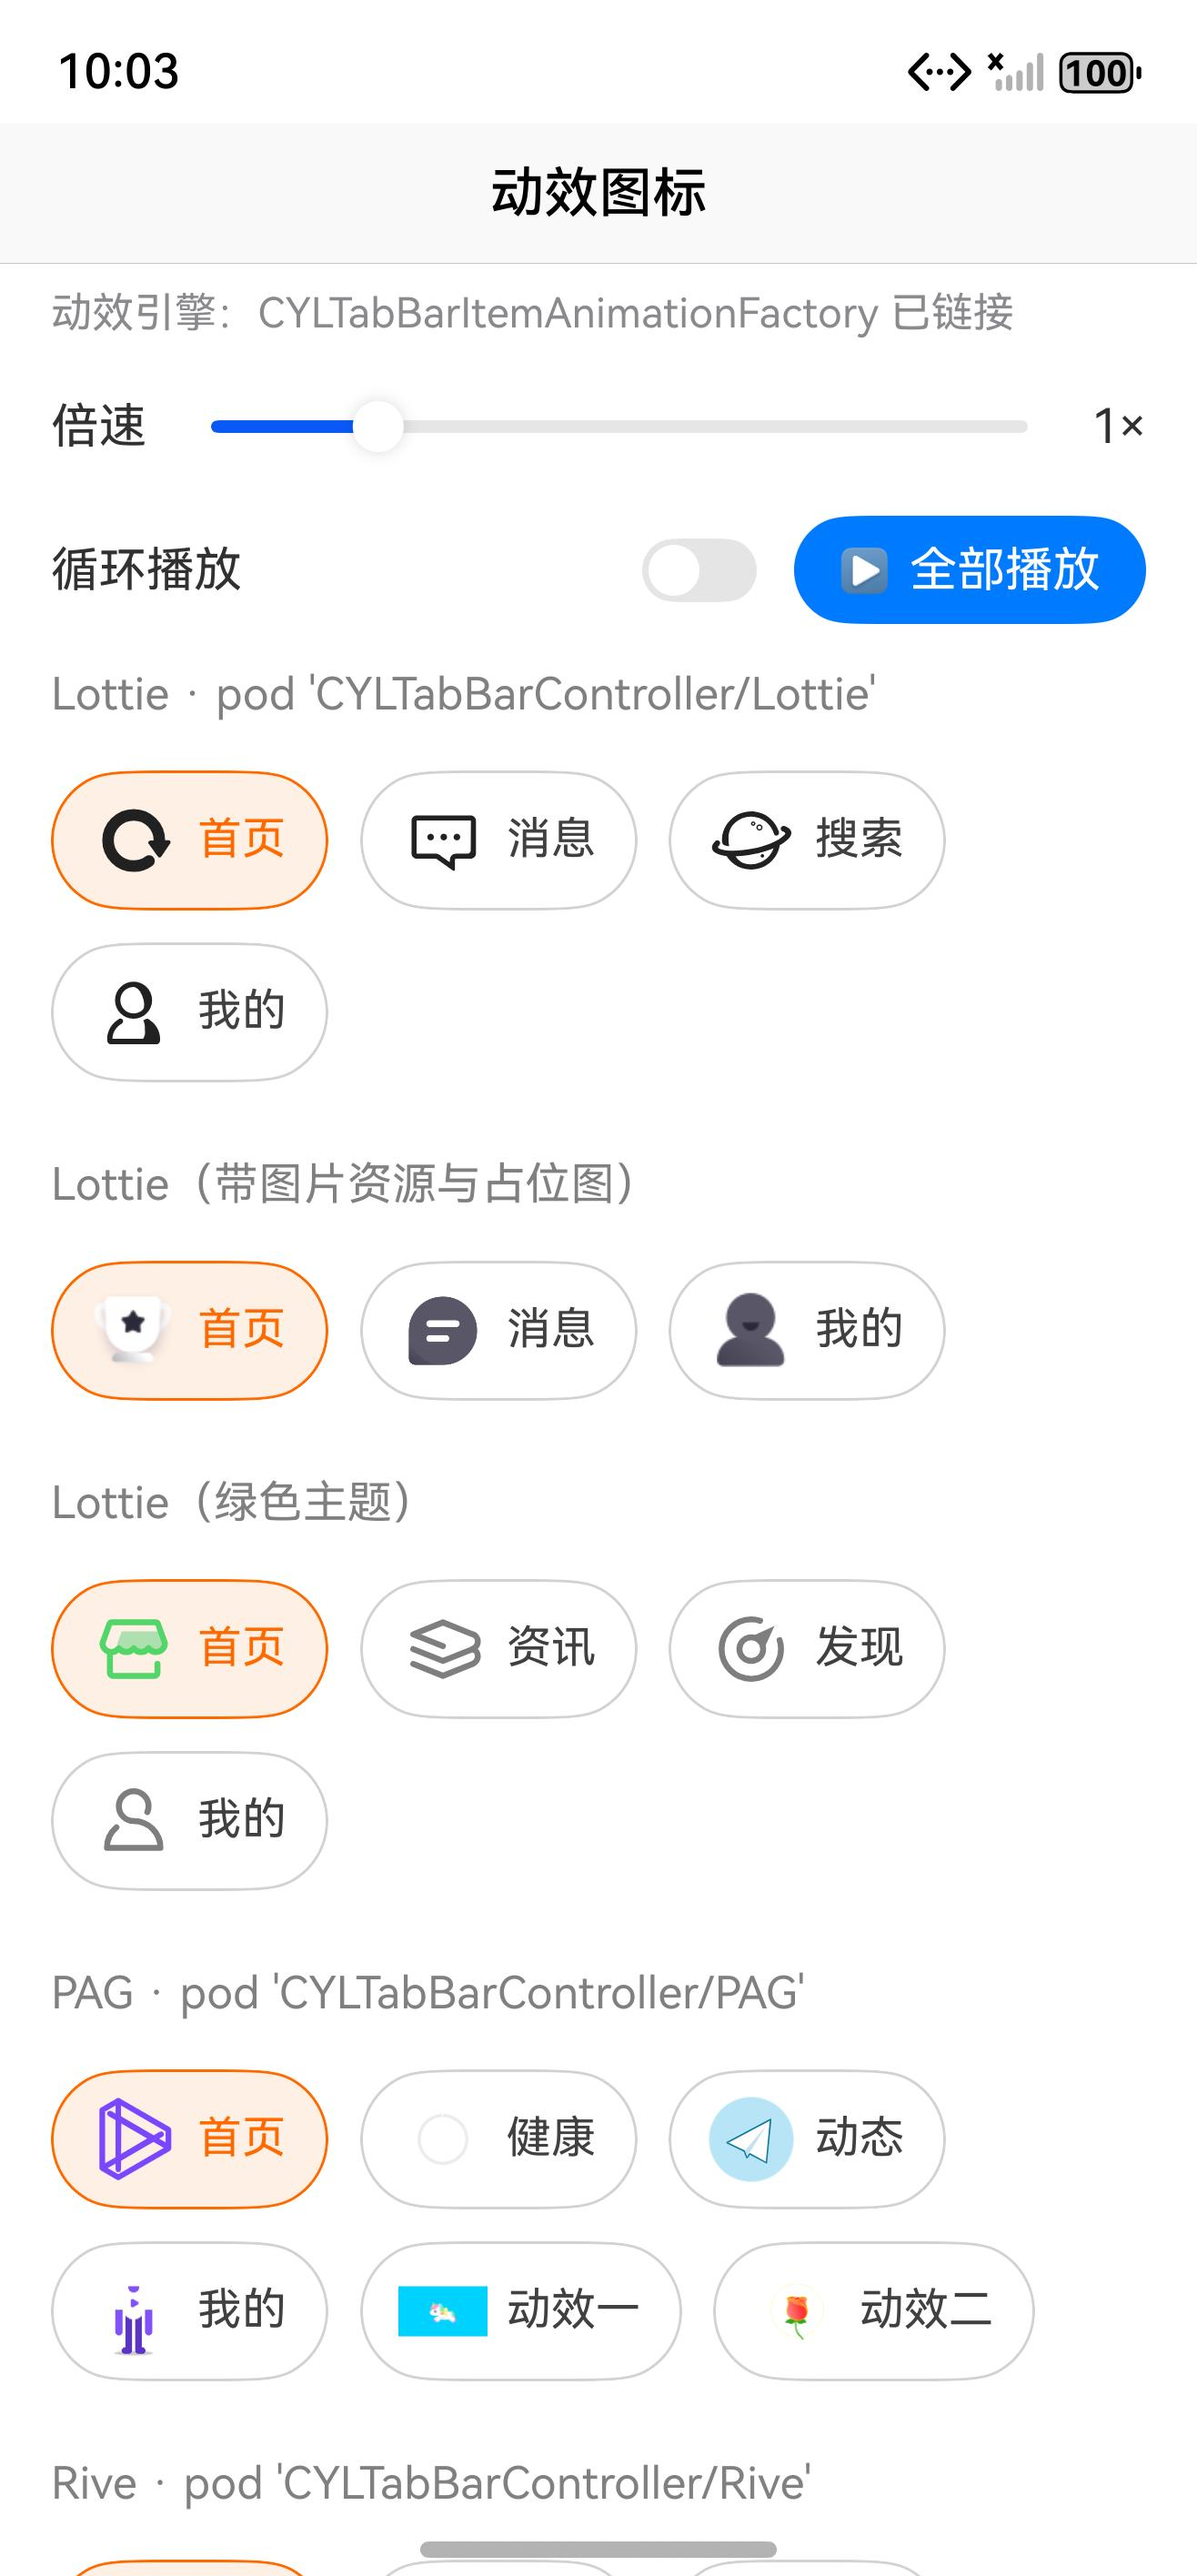
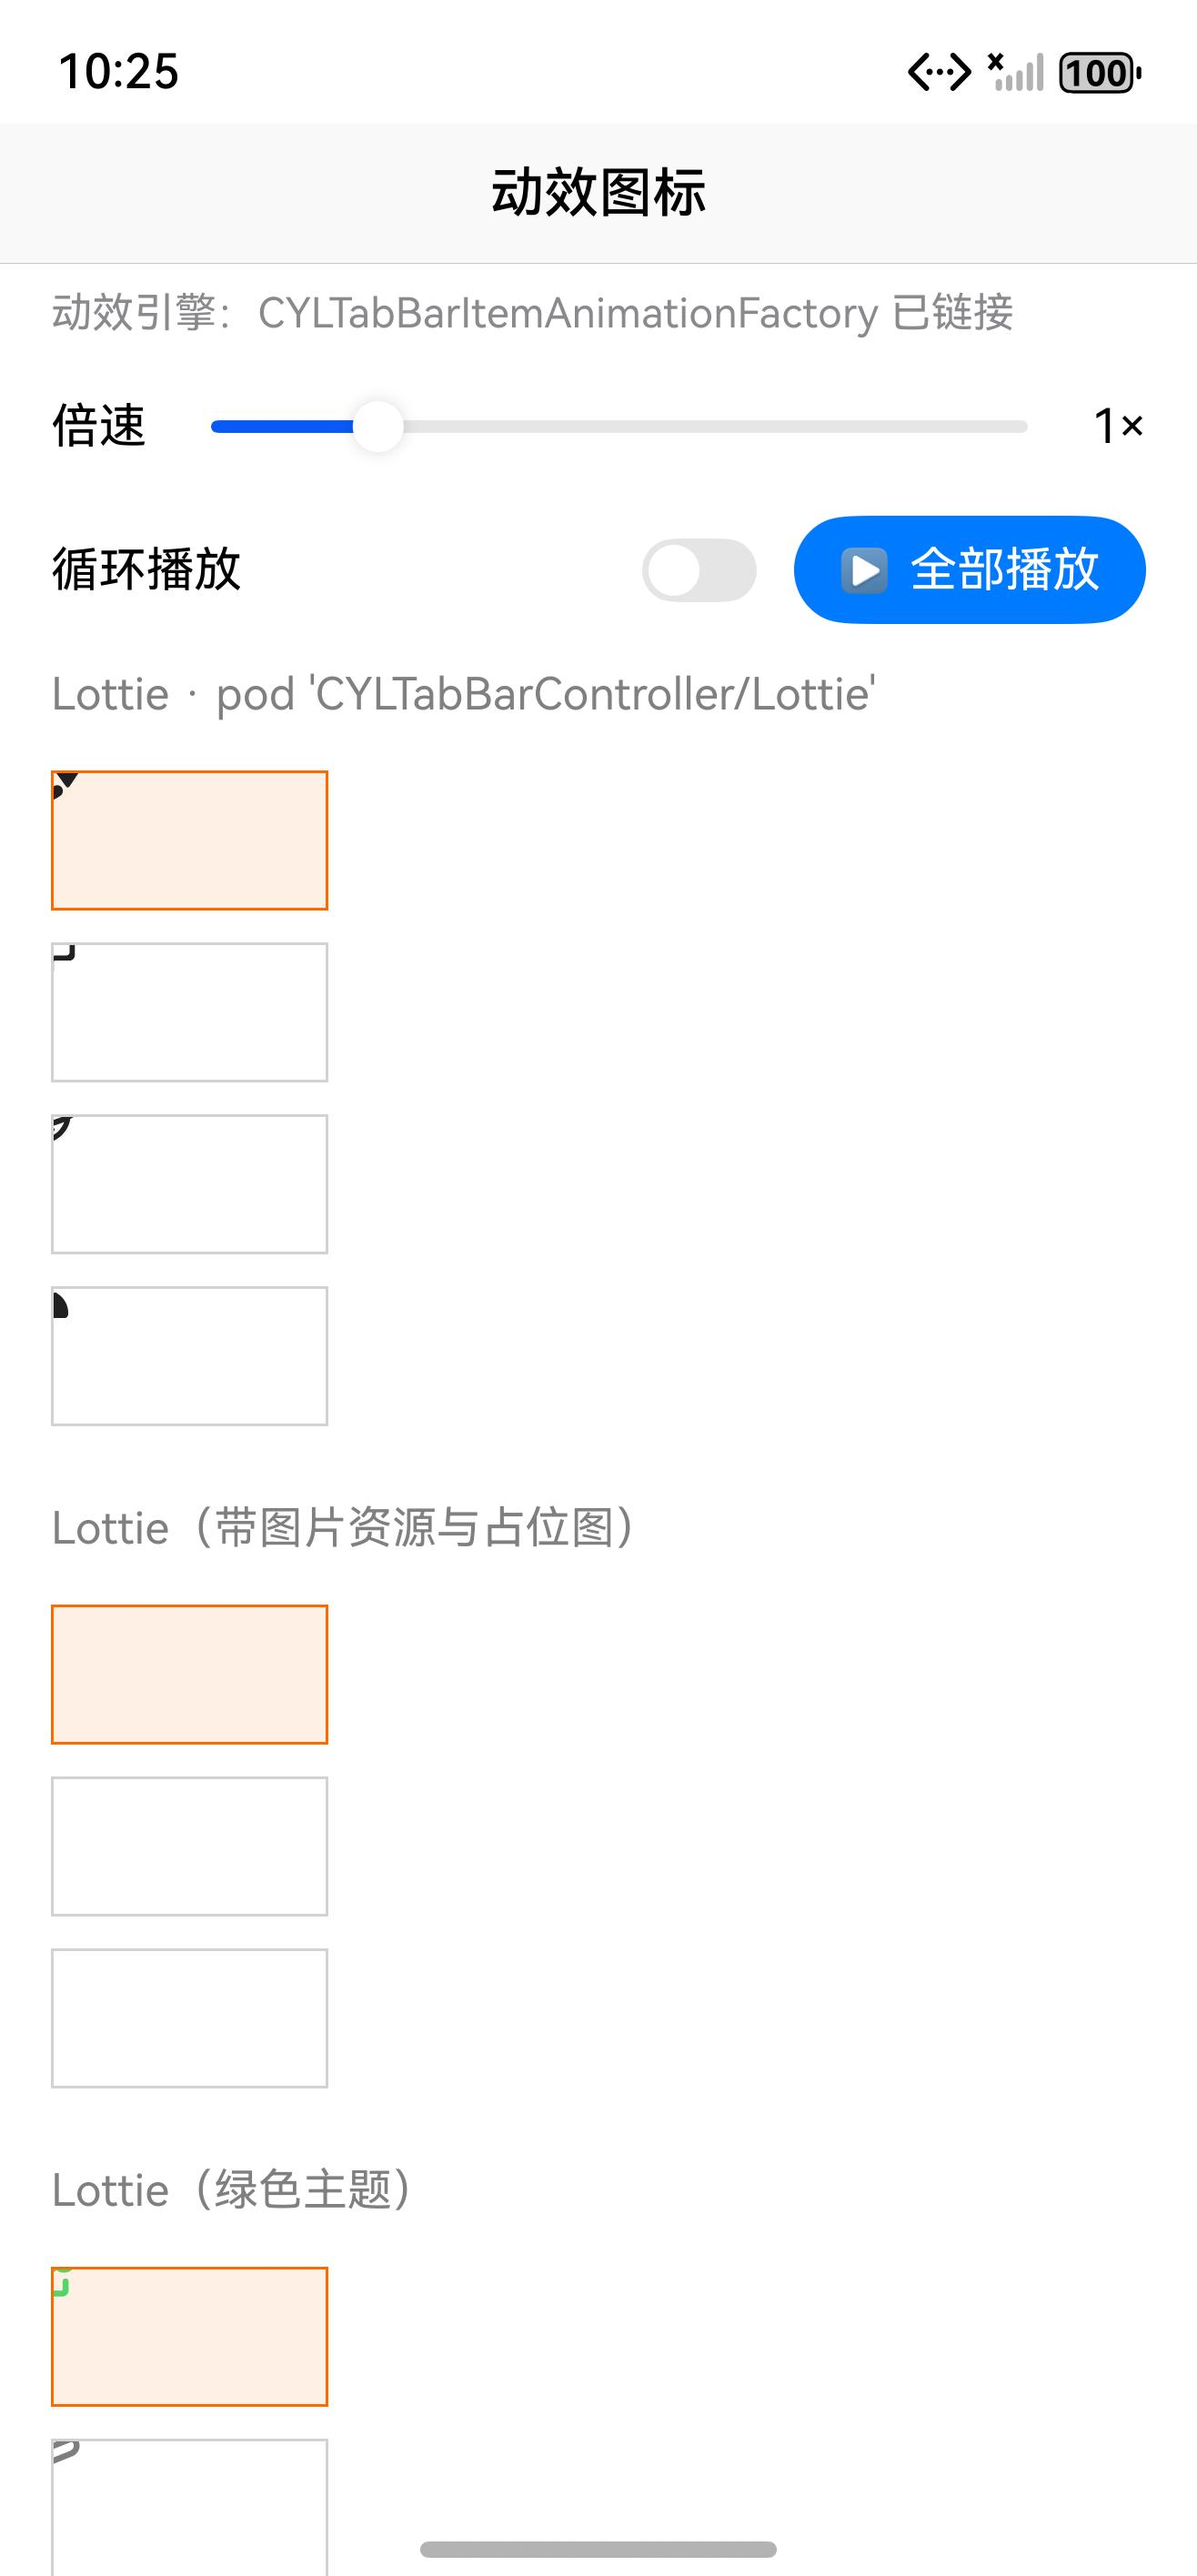
docs(harmony): 📝 rerun after the port's fixes: taps work, B11 regressed
Tag taps, the plus tab and the menu-linkage fold controls now work on
the emulator (six new pushed-page screenshots). The filter panel opens
under a dimming layer, the plus button still has no accessibility text,
the animated tags are empty boxes after 849c2d8, and the animation screen
crashed the emulator host twice (dark mode, scrolling).

By @ChenYilong <luohanchenyilong@163.com>

Claude-Session: https://claude.ai/code/session_017y7XP1mQbtZ3qSM2mvdshG

diff --git a/docs/harmony-verification.md b/docs/harmony-verification.md
@@ -34,7 +34,7 @@ screenshot in `docs/assets/`, or a passing `harmony/scripts/ui-test.sh` run); co
 ## Score
 
 **Score: 52 / 53 = 98.1 / 100 with the deferred rows counted as N/A (1 row has a defect found on the emulator:
-B11, dark mode and the Rive crash); verified on a device or the computer: 38 / 53 = 71.7 / 100.** Full marks = every row `DONE` / `N/A`. The 16 rows marked "TODO: N/A on HarmonyOS (deferred)" are not
+B11, a regression after `849c2d8` and emulator crashes); verified on a device or the computer: 38 / 53 = 71.7 / 100.** Full marks = every row `DONE` / `N/A`. The 16 rows marked "TODO: N/A on HarmonyOS (deferred)" are not
 impossible on HarmonyOS: they need a run on the emulator that has not happened yet (marked N/A at the maintainer's
 request, 2026-11-16; the dedicated emulator `CYL ClassifyMenu Test` exists since then). Each one turns back into a check when an emulator runs (`ui-test.sh`,
 `screenshots.sh`); 38 rows are verified: A1–A5 and H1–H8 on the computer, E1–E2, and B1–B10, B12–B22, F2 and G1 on the emulator
@@ -67,7 +67,7 @@ iOS demo (texts, data, taps), screenshot `docs/assets/harmonyos-<demo>.png` link
 | B8 | `CYLQueryScenariosPage` | DONE (2026-11-16): renders on the emulator, screenshot [query-scenarios](assets/harmonyos-query-scenarios.jpeg) |
 | B9 | `CYLMenuLinkagePage` | DONE (2026-11-16, after `d6adba3`): headers show their icon and title, tags render normally, 83 results, screenshot [menu-linkage](assets/harmonyos-menu-linkage.jpeg) |
 | B10 | `CYLTagStylePage` | DONE (2026-11-16): renders on the emulator, screenshot [styles](assets/harmonyos-styles.jpeg), [zh-hant-styles](assets/harmonyos-zh-hant-styles.jpeg) |
-| B11 | `CYLTagAnimationPage` | TODO (2026-11-16, after `d6adba3`): light mode renders every animated tag in Chinese and English ([animations](assets/harmonyos-animations.jpeg), [en-animations](assets/harmonyos-en-animations.jpeg)); in dark mode the rows are still empty and the speed and loop labels are invisible ([dark-animations](assets/harmonyos-dark-animations.jpeg)); the screen also crashes on the emulator in `libohos_rive.so` (null pointer while a Rive view disposes its EGL surface, @ohos/rive 1.0.4, the newest) |
+| B11 | `CYLTagAnimationPage` | TODO (2026-11-16, after `849c2d8`, regression): in light mode the animated tags are now empty boxes without icons or titles ([animations](assets/harmonyos-animations.jpeg); they rendered before); opening the screen in dark mode, or scrolling it, crashed the emulator host twice (Emulator minidump; no app fault log left); earlier app crashes were in `libohos_rive.so` |
 | B12 | `CYLTagConfigurationPage` | DONE (2026-11-16, after `d6adba3`): the icon-only item shows its heart, screenshot [configuration](assets/harmonyos-configuration.jpeg) |
 | B13 | `CYLTagCloudDemoPage` | DONE (2026-11-16): renders on the emulator, screenshot [tag-cloud](assets/harmonyos-tag-cloud.jpeg) |
 | B14 | `CYLTagCloudSamplePage` | DONE (2026-11-16): renders on the emulator, screenshot [tag-cloud-sample](assets/harmonyos-tag-cloud-sample.jpeg) |
@@ -167,3 +167,4 @@ feature in `harmony/entry/src/test` pass in `harmony/scripts/unit-test.sh` (no d
   last frame when selected).
 - 2026-11-16 (emulator run, `b1d3724`): screenshots of every demo on a new dedicated emulator (`harmony/scripts/screenshots.sh`): B2–B8, B10, B13–B22, F2 and G1 DONE; B1, B9, B11 and B12 found defects (TODO, reasons in their rows). Verified: 35 / 53 = 66.0 / 100; 16 rows still deferred, 4 rows with a defect to fix.
 - 2026-11-16 (emulator rerun after `d6adba3`): B1, B9 and B12 DONE; B11 still TODO (dark mode, Rive crash). Verified: 38 / 53 = 71.7 / 100.
+- 2026-11-16 (emulator rerun after `95bebc1`, `849c2d8`, `5dc703b`): tag taps, the plus tab and the menu-linkage fold controls work; the filter panel opens under a dimming layer; B11 regressed (empty tags) and the animation screen crashed the emulator host twice.

diff --git a/docs/screenshots.md b/docs/screenshots.md
@@ -78,3 +78,14 @@ Second batch (2026-11-16 15:07–15:09): the review filter, retried with its rea
 "全部" (All) selected with 10 matches (reported, TODO). Taps on a product review tag ("质量不错(5)"), a hot-search tag
 ("小西瓜"), a search-category tag ("腾讯工程师") and the tag-cloud "可删除" (Deletable) tag showed no new page; whether
 the iOS example opens one there is not checked yet.
+
+### Pushed pages after the port's fixes (2026-11-16 10:26–10:31 emulator time)
+
+| Screenshot | Platform | Environment | Commit | Taken |
+| --- | --- | --- | --- | --- |
+| <img src="assets/harmonyos-push-plus-page.jpeg" width="300" alt="HarmonyOS plus-page"> root → the plus button: its page "查询筛选" (Query filter), after `95bebc1` | HarmonyOS | HarmonyOS 6.0.1 SDK (API 21), emulator `CYL ClassifyMenu Test` (6.0.0.112(SP3DEVC00E112R4P11), 1316 × 2832), macOS 27.3 | `bb9e562` | 2026-11-16 15:26–15:31 NZDT |
+| <img src="assets/harmonyos-push-product-tag.jpeg" width="300" alt="HarmonyOS product-tag"> product → review tag "质量不错(5)": the review list filtered to it, 5 matches (after `5dc703b`, as iOS) | HarmonyOS | HarmonyOS 6.0.1 SDK (API 21), emulator `CYL ClassifyMenu Test` (6.0.0.112(SP3DEVC00E112R4P11), 1316 × 2832), macOS 27.3 | `bb9e562` | 2026-11-16 15:26–15:31 NZDT |
+| <img src="assets/harmonyos-push-reviews-good.jpeg" width="300" alt="HarmonyOS reviews-good"> review list → "好评(9)" (Good): 9 matches (after `5dc703b`) | HarmonyOS | HarmonyOS 6.0.1 SDK (API 21), emulator `CYL ClassifyMenu Test` (6.0.0.112(SP3DEVC00E112R4P11), 1316 × 2832), macOS 27.3 | `bb9e562` | 2026-11-16 15:26–15:31 NZDT |
+| <img src="assets/harmonyos-push-hot-search-tag.jpeg" width="300" alt="HarmonyOS hot-search-tag"> hot search → "小西瓜": the search field takes the tag (after `5dc703b`) | HarmonyOS | HarmonyOS 6.0.1 SDK (API 21), emulator `CYL ClassifyMenu Test` (6.0.0.112(SP3DEVC00E112R4P11), 1316 × 2832), macOS 27.3 | `bb9e562` | 2026-11-16 15:26–15:31 NZDT |
+| <img src="assets/harmonyos-push-search-category-tag.jpeg" width="300" alt="HarmonyOS search-category-tag"> search category → "腾讯工程师": the search field takes the tag (after `5dc703b`) | HarmonyOS | HarmonyOS 6.0.1 SDK (API 21), emulator `CYL ClassifyMenu Test` (6.0.0.112(SP3DEVC00E112R4P11), 1316 × 2832), macOS 27.3 | `bb9e562` | 2026-11-16 15:26–15:31 NZDT |
+| <img src="assets/harmonyos-push-menu-filter-sheet.jpeg" width="300" alt="HarmonyOS menu-filter-sheet"> menu linkage → filter button: the regions and dishes panel opens (after `95bebc1`), but under a gray dimming layer, so it looks blurred (TODO) | HarmonyOS | HarmonyOS 6.0.1 SDK (API 21), emulator `CYL ClassifyMenu Test` (6.0.0.112(SP3DEVC00E112R4P11), 1316 × 2832), macOS 27.3 | `bb9e562` | 2026-11-16 15:26–15:31 NZDT |

diff --git a/docs/issue-progress.md b/docs/issue-progress.md
@@ -35,7 +35,7 @@ tags: [issues, ui, cocoapods, progress]
 
 ## 待办 / TODO
 
-### TODO (2026-11-16): retest the HarmonyOS fixes on the emulator
+### DONE (2026-11-16): retest the HarmonyOS fixes on the emulator
 
 - **Context:** the port's owner pushed `95bebc1` (Rive dispose crash, plus tab and filter button), `849c2d8` (tags laid out
   1 vp wide, dark-mode text) and `5dc703b` (tag taps, fold chevrons) on `feat/harmony` (now the only branch).
@@ -43,6 +43,11 @@ tags: [issues, ui, cocoapods, progress]
   filter button and fold chevrons, the tag taps (hilog domain CYLTagList); update the screenshots and the verification
   rows; push to `feat/harmony`.
 - **Prompt (verbatim):** "continue"
+- **Result:** fixed: tag taps (product tag opens the filtered review list, "好评(9)" filters to 9, hot-search and
+  search-category tags fill the search field; hilog `CYLTagList: tap gesture`), the plus tab (opens "查询筛选"), the
+  menu-linkage fold controls ("更多 ⌄"). Still wrong: the filter panel opens under a gray dimming layer; the plus button
+  still exposes only a description, no accessibility text; B11 regressed (light-mode animated tags are empty boxes);
+  opening the animation screen in dark mode or scrolling it crashed the emulator host twice. Reported to the owner.
 
 ### DONE (2026-11-16): more HarmonyOS pushed-page screenshots
 
